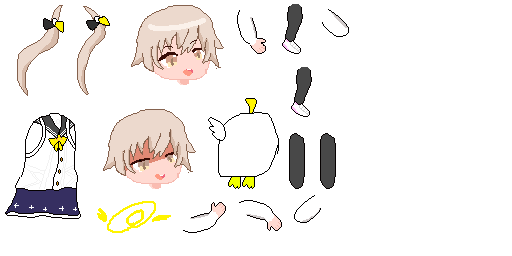
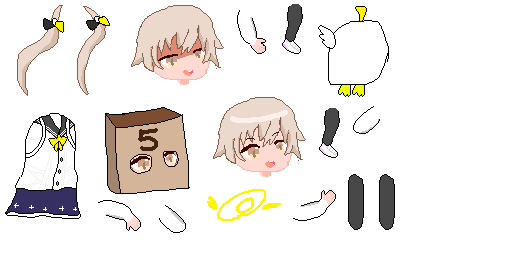
add faust and some fix

diff --git a/src/main/java/BlueArchive_Hifumi/powers/BetrayerPower.java b/src/main/java/BlueArchive_Hifumi/powers/BetrayerPower.java
@@ -2,14 +2,12 @@ package BlueArchive_Hifumi.powers;
 
 import BlueArchive_Hifumi.DefaultMod;
 import BlueArchive_Hifumi.actions.BetrayerAction;
-import BlueArchive_Hifumi.actions.CollectSelectAction;
+import BlueArchive_Hifumi.characters.Hifumi;
 import BlueArchive_Hifumi.util.TextureLoader;
 import basemod.interfaces.CloneablePowerInterface;
-import com.badlogic.gdx.graphics.Color;
 import com.badlogic.gdx.graphics.Texture;
 import com.badlogic.gdx.graphics.g2d.TextureAtlas;
-import com.megacrit.cardcrawl.cards.AbstractCard;
-import com.megacrit.cardcrawl.cards.CardGroup;
+import com.esotericsoftware.spine.AnimationState;
 import com.megacrit.cardcrawl.core.AbstractCreature;
 import com.megacrit.cardcrawl.core.CardCrawlGame;
 import com.megacrit.cardcrawl.dungeons.AbstractDungeon;
@@ -17,7 +15,6 @@ import com.megacrit.cardcrawl.localization.PowerStrings;
 import com.megacrit.cardcrawl.powers.AbstractPower;
 
 import static BlueArchive_Hifumi.DefaultMod.makePowerPath;
-import static com.megacrit.cardcrawl.cards.CardGroup.CardGroupType.UNSPECIFIED;
 
 public class BetrayerPower extends AbstractPower implements CloneablePowerInterface {
     public AbstractCreature source;
@@ -44,9 +41,25 @@ public class BetrayerPower extends AbstractPower implements CloneablePowerInterf
         this.region128 = new TextureAtlas.AtlasRegion(tex84, 0, 0, 84, 84);
         this.region48 = new TextureAtlas.AtlasRegion(tex32, 0, 0, 32, 32);
 
+        if(AbstractDungeon.player instanceof Hifumi) {
+            AbstractDungeon.player.state.setAnimation(0, "base_animation_paust", true);
+        }
         updateDescription();
     }
 
+    public void onVictory() {
+        if(AbstractDungeon.player instanceof Hifumi) {
+            AnimationState.TrackEntry e = AbstractDungeon.player.state.setAnimation(0, "offHead", false);
+            AbstractDungeon.player.state.addAnimation(0, "base_animation", true, e.getEndTime());
+        }
+    }
+
+    public void onRemove() {
+        if(AbstractDungeon.player instanceof Hifumi) {
+            AnimationState.TrackEntry e = AbstractDungeon.player.state.setAnimation(0, "offHead", false);
+            AbstractDungeon.player.state.addAnimation(0, "base_animation", true, e.getEndTime());
+        }
+    }
 
     public void atStartOfTurnPostDraw() {
         AbstractDungeon.actionManager.addToBottom(new BetrayerAction(amount));
